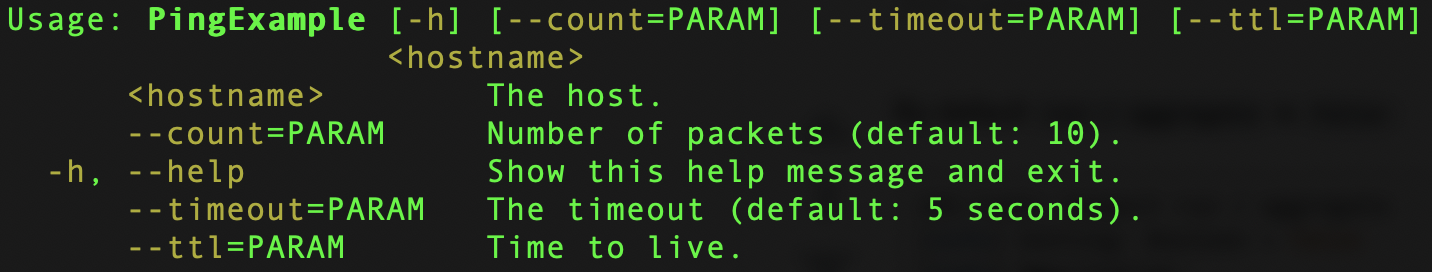
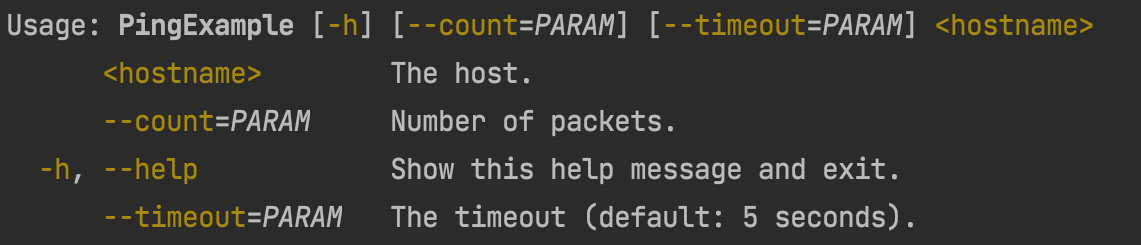
Simplified ping example.

diff --git a/README.md b/README.md
@@ -23,21 +23,10 @@ object PingExample extends CommandLineApp {
 }
 ```
 
-which produces the following command line usage message when run with --help:
+which produces the following usage message when run with --help on 
+a colour terminal:
 
-```text
-> PingExample --help
-
-Usage: PingExample [-h] [--count=PARAM] [--timeout=PARAM] <hostname>
-      <hostname>        The hostname.
-      --count=PARAM     Number of packets.
-  -h, --help            Show this help message and exit.
-      --timeout=PARAM   The timeout (default: 5 seconds).
-```
-
-On a colour terminal you should get something like:
-
-![alt PingExample](https://raw.githubusercontent.com/jobial-io/sclap/master/doc/pingExampleScreenshot.png)
+![alt PingExample](doc/pingExampleScreenshot.png)
 
 If you run it without any arguments, you will get the following on the standard error along with a non-zero exit code,
 as expected:
